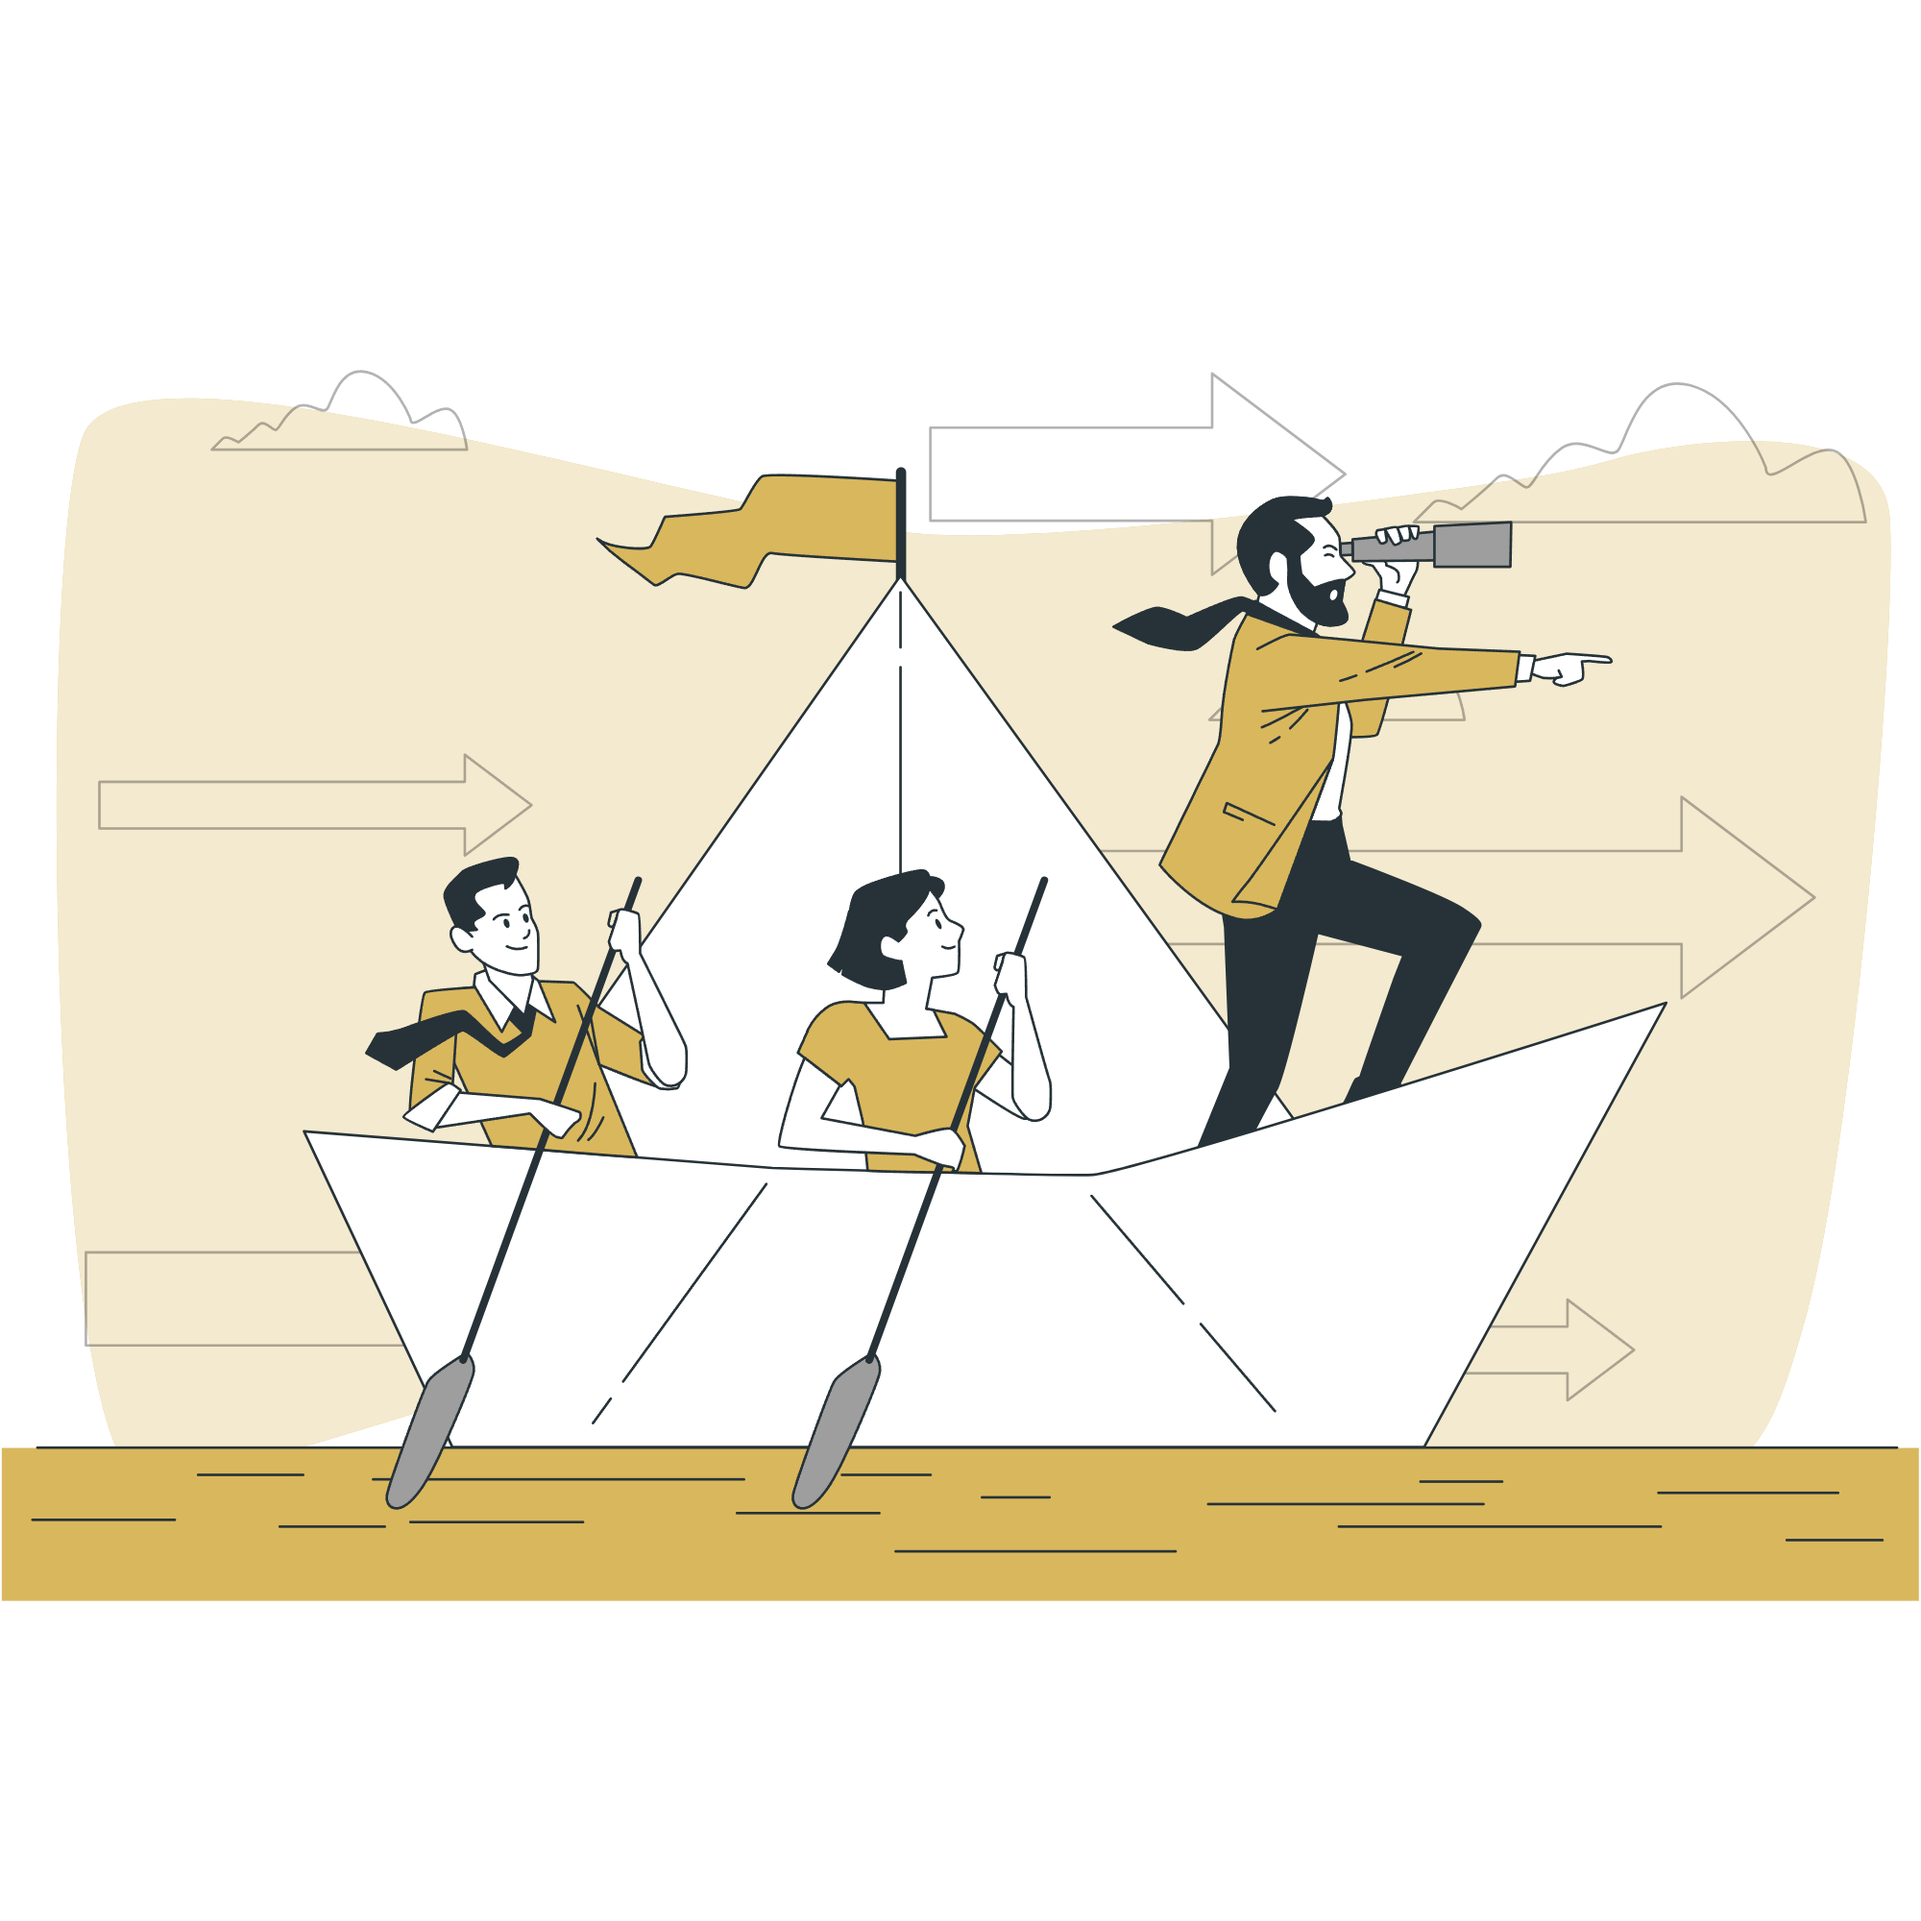
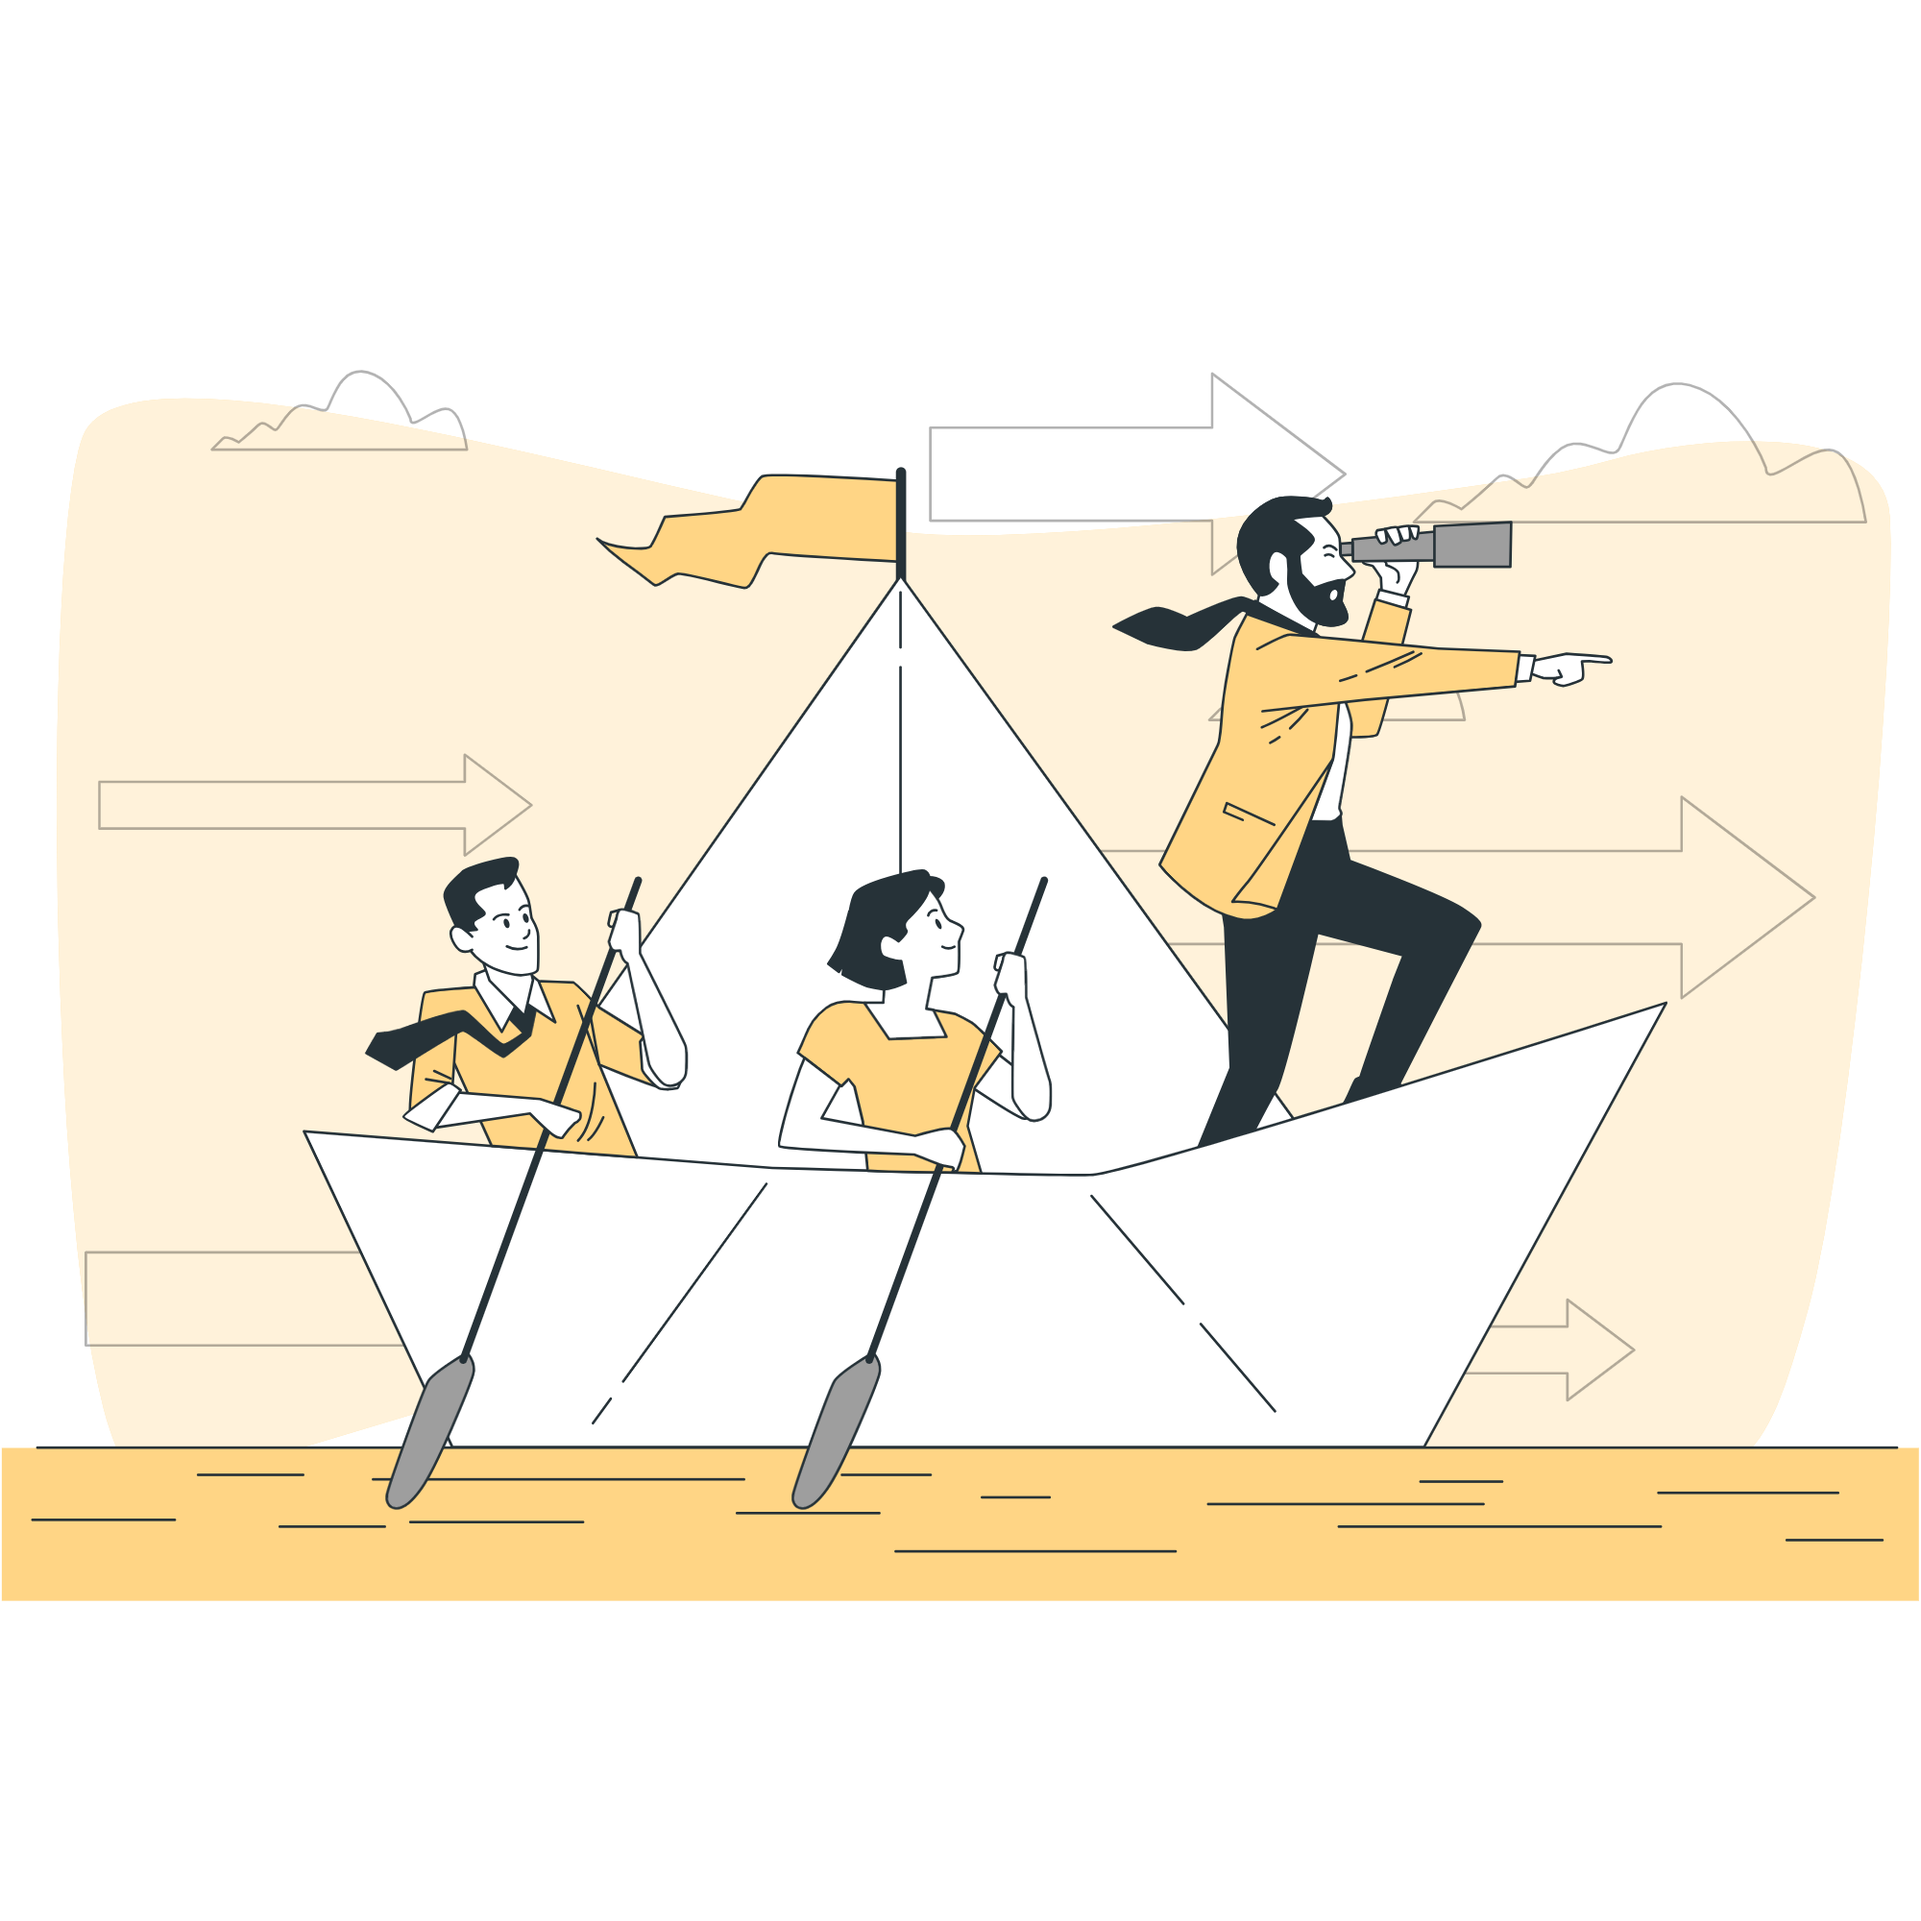
LOGIN ui CHANGED

diff --git a/src/components/loginpageMobile/index.js b/src/components/loginpageMobile/index.js
@@ -53,21 +53,36 @@ function SignUpMobile({ isSignIn, otpSection, handleSendCode }) {
     };
 
     return (
-      <Box style={{ width: "100%" }}>
-        <TextField
-          id="phone"
-          name="phone"
-          label="Phone Number"
-          variant="standard"
-          className="input-mobile"
-          onChange={handlePhoneChange}
-          error={touched.phone && Boolean(errors.phone)}
-          helperText={touched.phone && errors.phone}
-          type="tel"
-          inputMode="numeric"
-          value={values}
-        />
-      </Box>
+      <>
+        <Box style={{ width: "100%" }}>
+          <TextField
+            id="name"
+            label="Name"
+            variant="standard"
+            name="name"
+            value={values?.name}
+            className="input-mobile"
+            onChange={handleChange} // Standard handleChange for name
+            error={touched.name && Boolean(errors.name)}
+            helperText={touched.name && errors.name}
+          />
+        </Box>
+        <Box style={{ width: "100%" }}>
+          <TextField
+            id="phone"
+            name="phone"
+            label="Phone Number"
+            variant="standard"
+            className="input-mobile"
+            onChange={handlePhoneChange}
+            error={touched.phone && Boolean(errors.phone)}
+            helperText={touched.phone && errors.phone}
+            type="tel"
+            inputMode="numeric"
+            value={values}
+          />
+        </Box>
+      </>
     );
   };
 
@@ -129,11 +144,11 @@ function SignUpMobile({ isSignIn, otpSection, handleSendCode }) {
                       className="submit-text "
                     >
                       We need to register your phone number before getting
-                      <span style={{ color: "#d9b75d" }}> started!</span>
+                      <span style={{ color: "#ffd585" }}> started!</span>
                     </Typography>
                     <Button
                       variant="contained"
-                      style={{ backgroundColor: "#9f8e7c", margin: "15px 0px" }}
+                      style={{ backgroundColor: "#000000", margin: "15px 0px" }}
                       type="submit"
                     >
                       {otpSection ? "Verify Phone Number" : "Send the Code"}
@@ -168,7 +183,7 @@ function SignUpMobile({ isSignIn, otpSection, handleSendCode }) {
           fontSize="23px"
           style={{ padding: "10px 20px 0px 20px" }}
         >
-          Your Perfect <span style={{ color: "#d9b75d" }}>Coffee </span> Awaits!
+          Your Perfect <span style={{ color: "#ffd585" }}>Coffee </span> Awaits!
         </Typography>
         <Typography
           component={"p"}

diff --git a/src/Pages/LoginPage.js b/src/Pages/LoginPage.js
@@ -5,8 +5,8 @@ import {
   Typography,
   useMediaQuery,
 } from "@mui/material";
-import login_back from "../assets/login.jpg";
-import login_vector from "../assets/login_vector.png";
+import login_back from "../assets/login.png";
+import login_vector from "../assets/mobile_login_form.png";
 import styled from "@emotion/styled";
 import { Formik } from "formik";
 import * as yup from "yup";
@@ -196,11 +196,11 @@ const LoginPage = () => {
                         className="submit-text "
                       >
                         We need to register your phone number before getting
-                        <span style={{ color: "#9f8e7c" }}> started!</span>
+                        <span style={{ color: "#000000" }}> started!</span>
                       </Typography>
                       <Button
                         variant="contained"
-                        style={{ backgroundColor: "#6c6054" }}
+                        style={{ backgroundColor: "#000000", color: "#ffd585" }}
                         onClick={otpSection ? handleSendCode : handleSubmit}
                       >
                         {otpSection ? "Verify Phone Number" : "Send the Code"}

diff --git a/src/components/loginpageMobile/index.css b/src/components/loginpageMobile/index.css
@@ -1,5 +1,5 @@
 .signUpPage {
-  background-color: #eee3cf6e;
+  background-color: #ffffff;
   min-height: 100vh;
 }
 .main-img {
@@ -7,7 +7,7 @@
 }
 .headings {
   color: white;
-  background-color: #9f8e7c;
+  background-color: #000000;
   padding: 0px 20px 20px 20px;
   min-height: 73vh;
   border-radius: 0px 0px 35px 35px;
@@ -24,8 +24,8 @@
   justify-content: center;
 }
 .right-side-arrow {
-  background-color: #d9b75d;
-  color: black;
+  background-color: #000000;
+  color: white;
   border-radius: 50%;
   width: 50px;
   height: 50px;
@@ -48,7 +48,7 @@
 /* model */
 .MuiDrawer-paper {
   height: 95% !important;
-  background-color: #f8f3ea !important;
+  background-color: #ffffff !important;
   border-radius: 20px 20px 0px 0px !important;
 }
 .main-model {
@@ -65,7 +65,7 @@
   font-size: 22px !important;
   margin-top: 15px !important;
   font-weight: 700 !important;
-  color: #9f8e7c;
+  color: #000000;
 }
 .input-mobile {
   width: 84%;
@@ -75,7 +75,7 @@
 }
 .form-top {
   flex-basis: 100%;
-  background-color: #9f8e7c;
+  background-color: #000000;
   display: flex;
   justify-content: center;
   border-radius: 20px;

diff --git a/src/components/CheckoutButton/index.js b/src/components/CheckoutButton/index.js
@@ -7,7 +7,7 @@ const CheckoutButton = ({ onGetMyCoffee }) => {
     bottom: "20px",
     right: "20px",
     zIndex: 1000,
-    backgroundColor: "#FF6F00", // Bright Orange
+    backgroundColor: "#09b96d", // Bright Orange
     color: "#FFFFFF", // White text
     padding: "10px 20px",
     borderRadius: "8px",
@@ -19,7 +19,7 @@ const CheckoutButton = ({ onGetMyCoffee }) => {
   };
 
   const hoverStyles = {
-    backgroundColor: "#E65A00", // Darker orange on hover
+    backgroundColor: "#008f51", // Darker orange on hover
   };
 
   return (

diff --git a/src/components/ItemCard/index.js b/src/components/ItemCard/index.js
@@ -5,7 +5,7 @@ import HistoryToggleOffIcon from "@mui/icons-material/HistoryToggleOff";
 const ItemCard = ({ item, addItem, removeItem, alreadyInn }) => {
   console.log("alreadyInn", alreadyInn);
   return (
-    <Card className="blog-box card-main">
+    <Card className="blog-box card-main item-main-card">
       <CardContent className="card-Content-service">
         <Box className="description-box">
           <Typography variant="h6" className="name">

diff --git a/src/Pages/mobileUserDashboard/index.css b/src/Pages/mobileUserDashboard/index.css
@@ -28,7 +28,7 @@
   width: 92%;
   margin: 20px auto;
   height: 100px;
-  background-color: #9f8e7c;
+  background-color: #000000;
   border-radius: 12px;
   display: flex;
   align-items: center;
@@ -66,11 +66,11 @@
   cursor: pointer;
 }
 .menu:hover {
-  background-color: #9f8e7c;
+  background-color: #000000;
   color: #ffffff;
 }
 .active {
-  background-color: #9f8e7c;
+  background-color: #000000;
   color: #ffffff;
 }
 .progress-bar-value {

diff --git a/src/components/Otp/index.css b/src/components/Otp/index.css
@@ -4,13 +4,13 @@
   margin: 0 5px;
   text-align: center;
   font-size: 18px;
-  border: 1px solid #9f8e7c;
+  border: 1px solid #000000;
   border-radius: 4px;
   background-color: transparent;
 }
 
 .input:focus-visible {
-  outline: #9f8e7c auto 1px !important;
+  outline: #000000 auto 1px !important;
 }
 input[type="number"]::-webkit-outer-spin-button,
 input[type="number"]::-webkit-inner-spin-button {

diff --git a/src/components/Otp/otp.js b/src/components/Otp/otp.js
@@ -65,7 +65,7 @@ const OTPInput = ({ length = 6 }) => {
             margin: "0 5px",
             textAlign: "center",
             fontSize: "18px",
-            border: "1px solid #9f8e7c",
+            border: "1px solid #000000",
             borderRadius: "4px",
             backgroundColor: "transparent",
           }}

diff --git a/src/App.js b/src/App.js
@@ -17,7 +17,7 @@ import PrivacyPolicy from "./Pages/AboutUsPage";
 const theme = createTheme({
   palette: {
     primary: {
-      main: "#9f8e7c",
+      main: "#000000",
     },
     secondary: {
       main: "#eee3cf",

diff --git a/src/components/checkoutCard/index.css b/src/components/checkoutCard/index.css
@@ -9,6 +9,7 @@
 .Checkout-box {
   display: flex;
   margin-bottom: 5px;
+  width: 100% !important;
 }
 
 .menu-page .menu-box-container .card-main {

diff --git a/src/components/SIdeBaar/index.css b/src/components/SIdeBaar/index.css
@@ -56,5 +56,5 @@
   color: #ffffff;
 }
 .active-side {
-  color: #d9b75d !important;
+  color: #ffd585 !important;
 }
